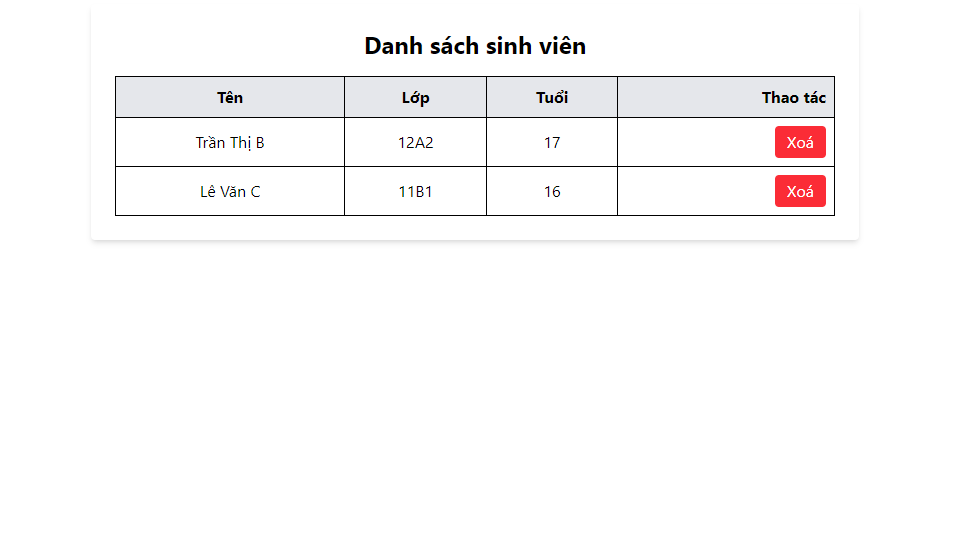
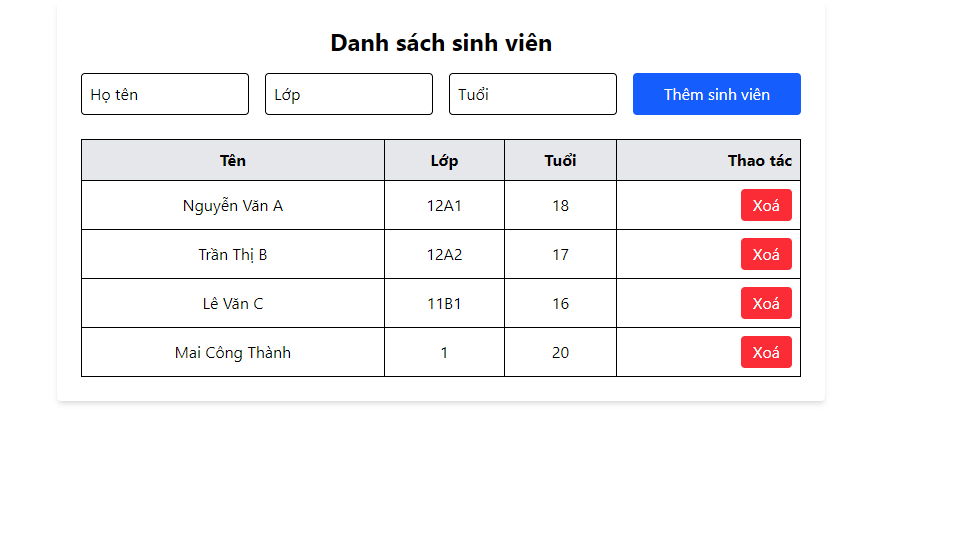
feat: Them sinh vien moi

diff --git a/src/Components/SinhVien.jsx b/src/Components/SinhVien.jsx
@@ -1,51 +1,106 @@
-import React from 'react'
-import { useState } from "react"
+import React, { useState } from "react";
 
 export default function SinhVien() {
-    const [students, setStudents] = useState([
-        { id: 1, name: "Nguyễn Văn A", class: "12A1", age: 18 },
-        { id: 2, name: "Trần Thị B", class: "12A2", age: 17 },
-        { id: 3, name: "Lê Văn C", class: "11B1", age: 16 },
-      ]);
+  const [students, setStudents] = useState([
+    { id: 1, name: "Nguyễn Văn A", class: "12A1", age: 18 },
+    { id: 2, name: "Trần Thị B", class: "12A2", age: 17 },
+    { id: 3, name: "Lê Văn C", class: "11B1", age: 16 },
+  ]);
 
-      const handleDelete = (id) => {
-        setStudents(students.filter((s) => s.id !== id));
-      };
+  const [name, setName] = useState("");
+  const [studentClass, setStudentClass] = useState("");
+  const [age, setAge] = useState("");
 
-      return (
-        <div className="bg-white rounded shadow-md p-6 max-w-3xl mx-auto">
-          <h1 className="text-2xl font-bold mb-4 text-center">Danh sách sinh viên</h1>
-          {students.length > 0 ? (
-            <table className="w-full table-auto border border-gray-300">
-              <thead className="bg-gray-200">
-                <tr>
-                  <th className="p-2 border">Tên</th>
-                  <th className="p-2 border">Lớp</th>
-                  <th className="p-2 border">Tuổi</th>
-                  <th className="p-2 border text-right">Thao tác</th>
-                </tr>
-              </thead>
-              <tbody>
-                {students.map((student) => (
-                  <tr key={student.id} className="text-center">
-                    <td className="p-2 border">{student.name}</td>
-                    <td className="p-2 border">{student.class}</td>
-                    <td className="p-2 border">{student.age}</td>
-                    <td className="p-2 border text-right">
-                      <button
-                        onClick={() => handleDelete(student.id)}
-                        className="bg-red-500 text-white px-3 py-1 rounded hover:bg-red-600"
-                      >
-                        Xoá
-                      </button>
-                    </td>
-                  </tr>
-                ))}
-              </tbody>
-            </table>
-          ) : (
-            <p className="text-center text-gray-500 py-6">Không có sinh viên nào.</p>
-          )}
-        </div>
-      );
+  const handleAddStudent = () => {
+    if (name.trim() === "" || studentClass.trim() === "" || age.trim() === "") {
+      alert("Vui lòng nhập đầy đủ thông tin.");
+      return;
+    }
+
+    const newStudent = {
+      id: Date.now(),
+      name,
+      class: studentClass,
+      age: parseInt(age),
+    };
+
+    setStudents([...students, newStudent]);
+    setName("");
+    setStudentClass("");
+    setAge("");
+  };
+
+  const handleDelete = (id) => {
+    setStudents(students.filter((s) => s.id !== id));
+  };
+
+  return (
+    <div className="bg-white rounded shadow-md p-6 max-w-3xl mx-auto mt-6">
+      <h1 className="text-2xl font-bold mb-4 text-center">Danh sách sinh viên</h1>
+
+      {/* Form thêm sinh viên */}
+      <div className="grid grid-cols-1 md:grid-cols-4 gap-4 mb-6">
+        <input
+          type="text"
+          placeholder="Họ tên"
+          className="border p-2 rounded"
+          value={name}
+          onChange={(e) => setName(e.target.value)}
+        />
+        <input
+          type="text"
+          placeholder="Lớp"
+          className="border p-2 rounded"
+          value={studentClass}
+          onChange={(e) => setStudentClass(e.target.value)}
+        />
+        <input
+          type="number"
+          placeholder="Tuổi"
+          className="border p-2 rounded"
+          value={age}
+          onChange={(e) => setAge(e.target.value)}
+        />
+        <button
+          onClick={handleAddStudent}
+          className="bg-blue-600 text-white px-3 py-2 rounded hover:bg-blue-700"
+        >
+          Thêm sinh viên
+        </button>
+      </div>
+
+      {/* Bảng danh sách */}
+      {students.length > 0 ? (
+        <table className="w-full table-auto border border-gray-300">
+          <thead className="bg-gray-200">
+            <tr>
+              <th className="p-2 border">Tên</th>
+              <th className="p-2 border">Lớp</th>
+              <th className="p-2 border">Tuổi</th>
+              <th className="p-2 border text-right">Thao tác</th>
+            </tr>
+          </thead>
+          <tbody>
+            {students.map((student) => (
+              <tr key={student.id} className="text-center">
+                <td className="p-2 border">{student.name}</td>
+                <td className="p-2 border">{student.class}</td>
+                <td className="p-2 border">{student.age}</td>
+                <td className="p-2 border text-right">
+                  <button
+                    onClick={() => handleDelete(student.id)}
+                    className="bg-red-500 text-white px-3 py-1 rounded hover:bg-red-600"
+                  >
+                    Xoá
+                  </button>
+                </td>
+              </tr>
+            ))}
+          </tbody>
+        </table>
+      ) : (
+        <p className="text-center text-gray-500 py-6">Không có sinh viên nào.</p>
+      )}
+    </div>
+  );
 }
